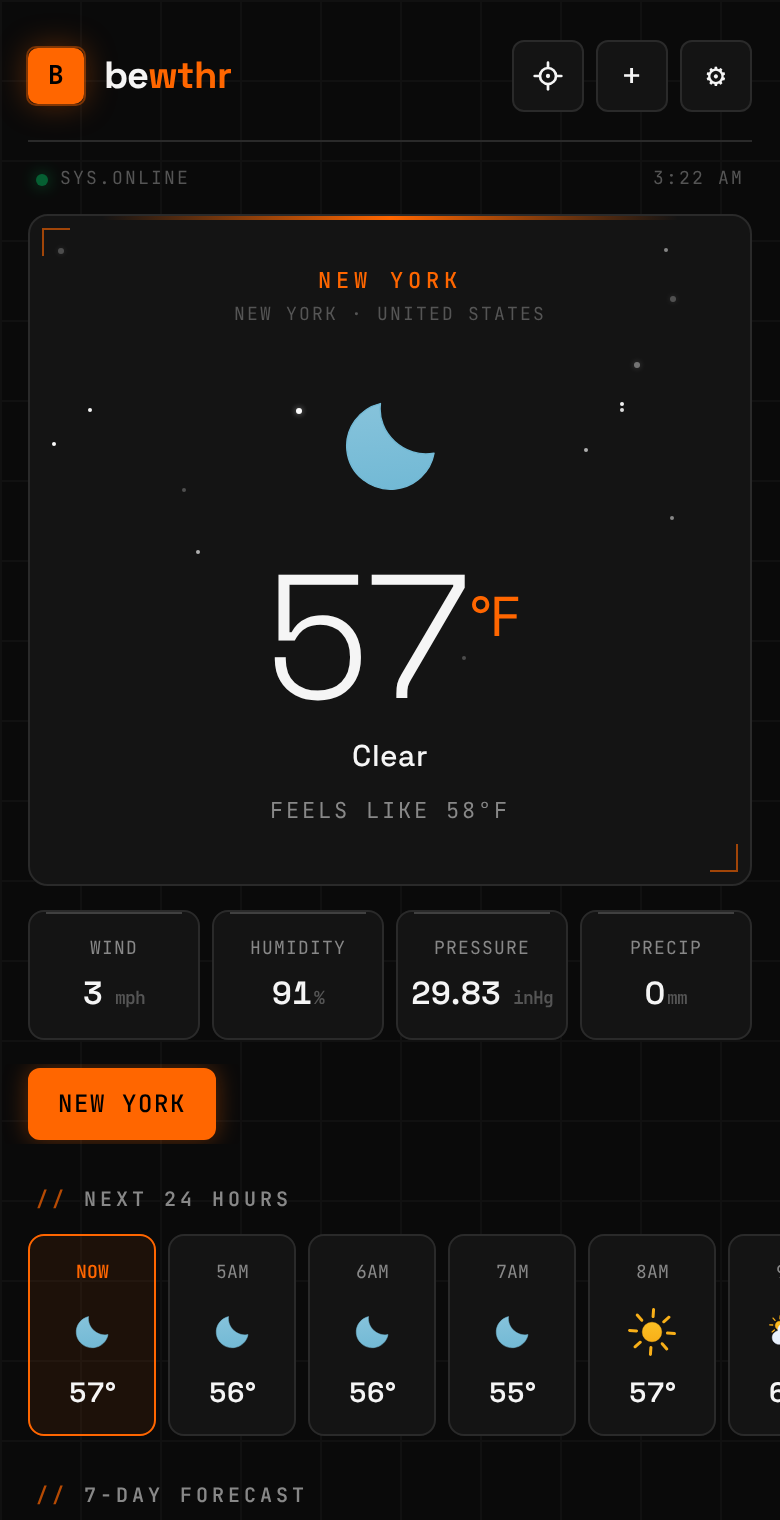
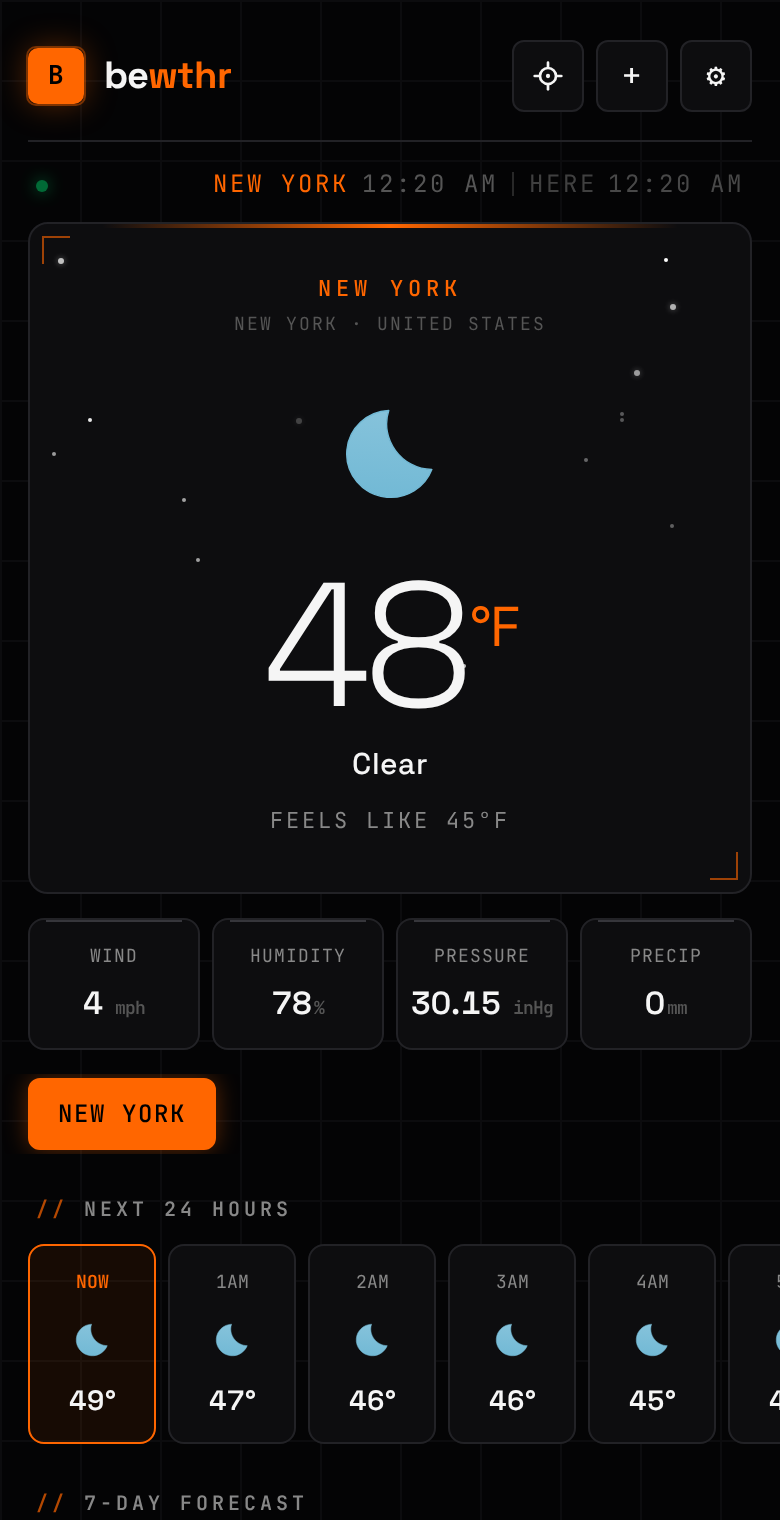
docs(readme): retake screenshots for real; alt text matches them
All README screenshots retaken for real (2026-10-20, ~00:15 New York time):
no geolocation permission, no clock or timezone override, no injected
storage. Cities were picked through the app's own search (Tokyo by day,
New York by night — where it really was day/night), modes and themes
through its own Settings, other hours through its own controls.
Continuum shots now show the metrics row fixed in 59d8253.

Claude-Session: https://claude.ai/code/session_01Fkcy83a99eAxkqh83U9V1n

diff --git a/README.md b/README.md
@@ -12,22 +12,22 @@ $\textcolor{#22d3ee}{\textsf{space}}$ · $\textcolor{#d946ef}{\textsf{time}}$ ·
 
 $\textcolor{#22d3ee}{\textsf{IMAGINED}}$ — the full living sky
 <p>
-  <img src="screenshots/hero-day.png" width="30%" alt="bewthr Imagined — daytime living sky with the sun over the current conditions" />
-  <img src="screenshots/hero-night.png" width="30%" alt="bewthr Imagined — night living sky with a crescent moon and stars over the current conditions" />
+  <img src="screenshots/hero-day.png" width="30%" alt="bewthr Imagined — daytime living sky over Tokyo, partly cloudy" />
+  <img src="screenshots/hero-night.png" width="30%" alt="bewthr Imagined — night living sky over New York with the moon and stars" />
   <img src="screenshots/sky-tonight.png" width="30%" alt="bewthr Sky Tonight — the sun and moon on their real sky-dome paths, a dusk timeline, and planets and constellations each with a sky-position dial" />
 </p>
 
 $\textcolor{#d946ef}{\textsf{CONTINUUM}}$ — scrub or play a full day of sky
 <p>
-  <img src="screenshots/continuum-day.png" width="30%" alt="bewthr Continuum — daytime living sky over New York with a 24-hour scrubber and a Play control" />
+  <img src="screenshots/continuum-day.png" width="30%" alt="bewthr Continuum — daytime sky over New York, scrubbed to late morning, with a 24-hour scrubber and a Play control" />
   <img src="screenshots/continuum-tokyo.png" width="30%" alt="bewthr Continuum — golden-hour sky over Tokyo, scrubbed to late afternoon" />
-  <img src="screenshots/continuum-night.png" width="30%" alt="bewthr Continuum — night living sky with real stars over New York, scrubbed to a late hour" />
+  <img src="screenshots/continuum-night.png" width="30%" alt="bewthr Continuum — night living sky with real stars over New York, right now" />
 </p>
 
 $\textcolor{#f5a623}{\textsf{CLASSIC}}$ — a clean, minimal instrument view
 <p>
   <img src="screenshots/classic-day.png" width="30%" alt="bewthr Classic — clean light-theme instrument view of current conditions, daytime" />
-  <img src="screenshots/classic-night.png" width="30%" alt="bewthr Classic — instrument view at night with a crescent moon" />
+  <img src="screenshots/classic-night.png" width="30%" alt="bewthr Classic — instrument view at night with the moon" />
   <img src="screenshots/classic-sky.png" width="30%" alt="bewthr Classic — Sky Tonight data panel: sun and moon times, planets and constellations" />
 </p>
 
